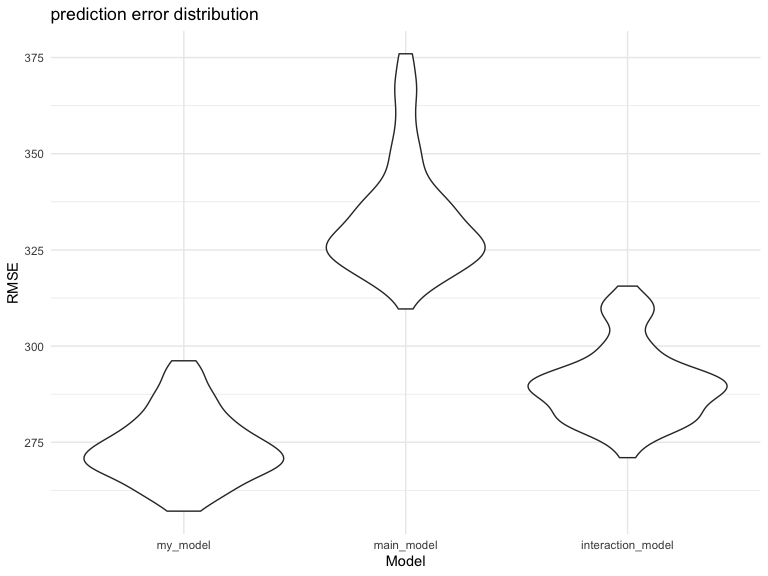
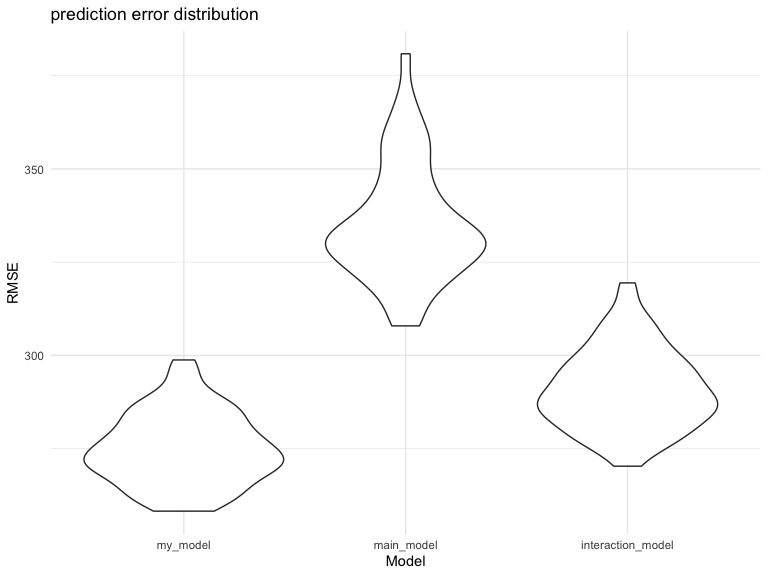
final commit

diff --git a/p8105_hw6_xf2226.md b/p8105_hw6_xf2226.md
@@ -175,19 +175,19 @@ interaction_model_fit = lm(bwt ~ bhead * babysex * blength, data = train_df)
 rmse(my_model_fit, test_df)
 ```
 
-    ## [1] 296
+    ## [1] 275
 
 ``` r
 rmse(main_model_fit, test_df)
 ```
 
-    ## [1] 367
+    ## [1] 331
 
 ``` r
 rmse(interaction_model_fit, test_df)
 ```
 
-    ## [1] 315
+    ## [1] 285
 
 The RMSEs suggest that my\_model works the best.
 
